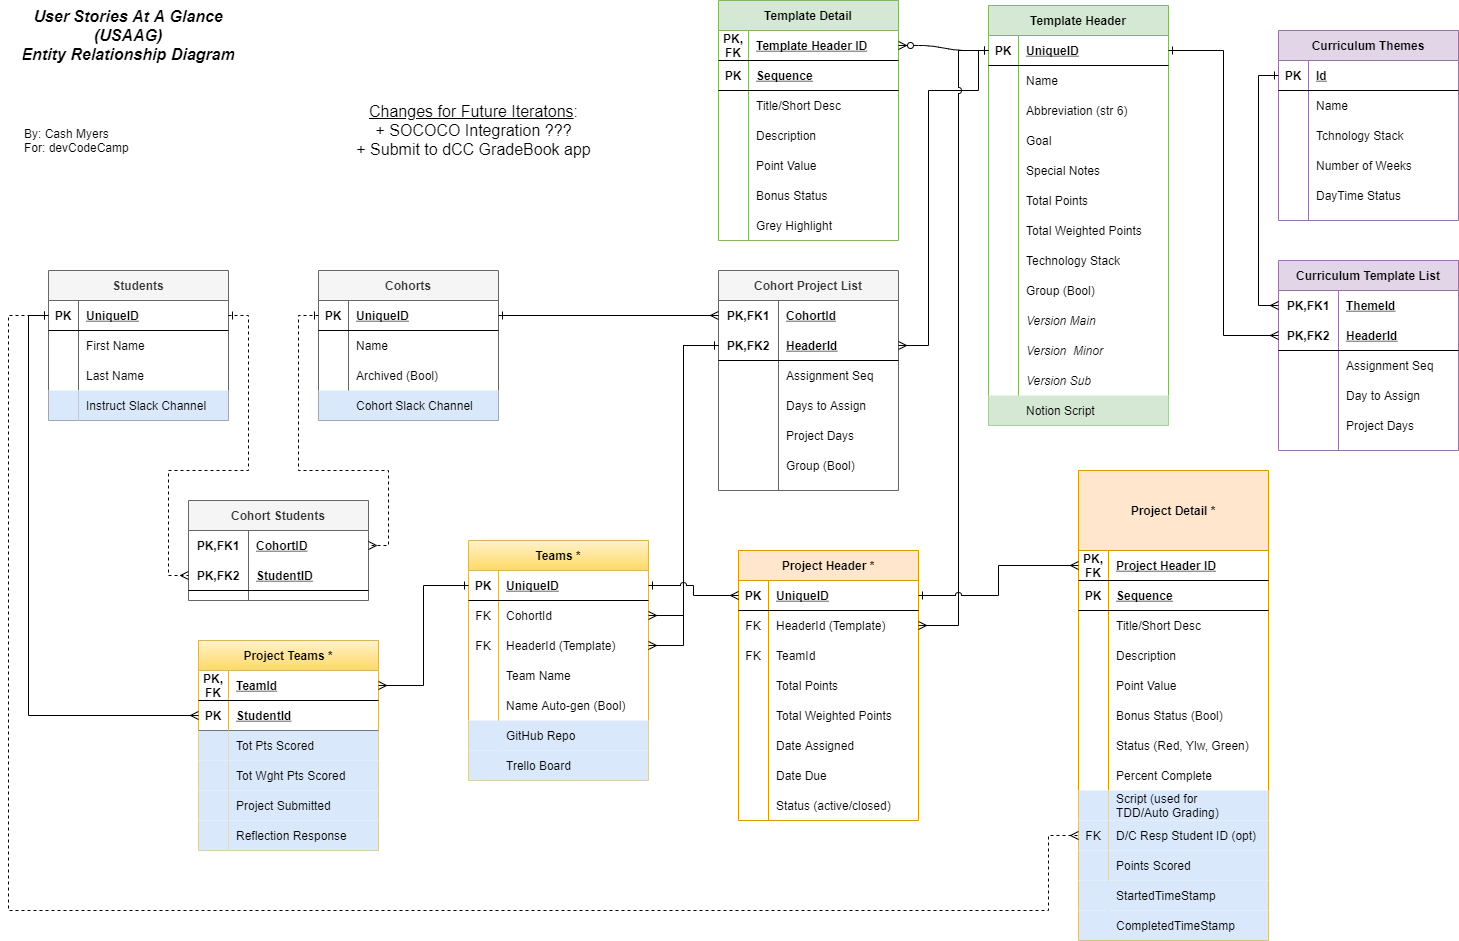
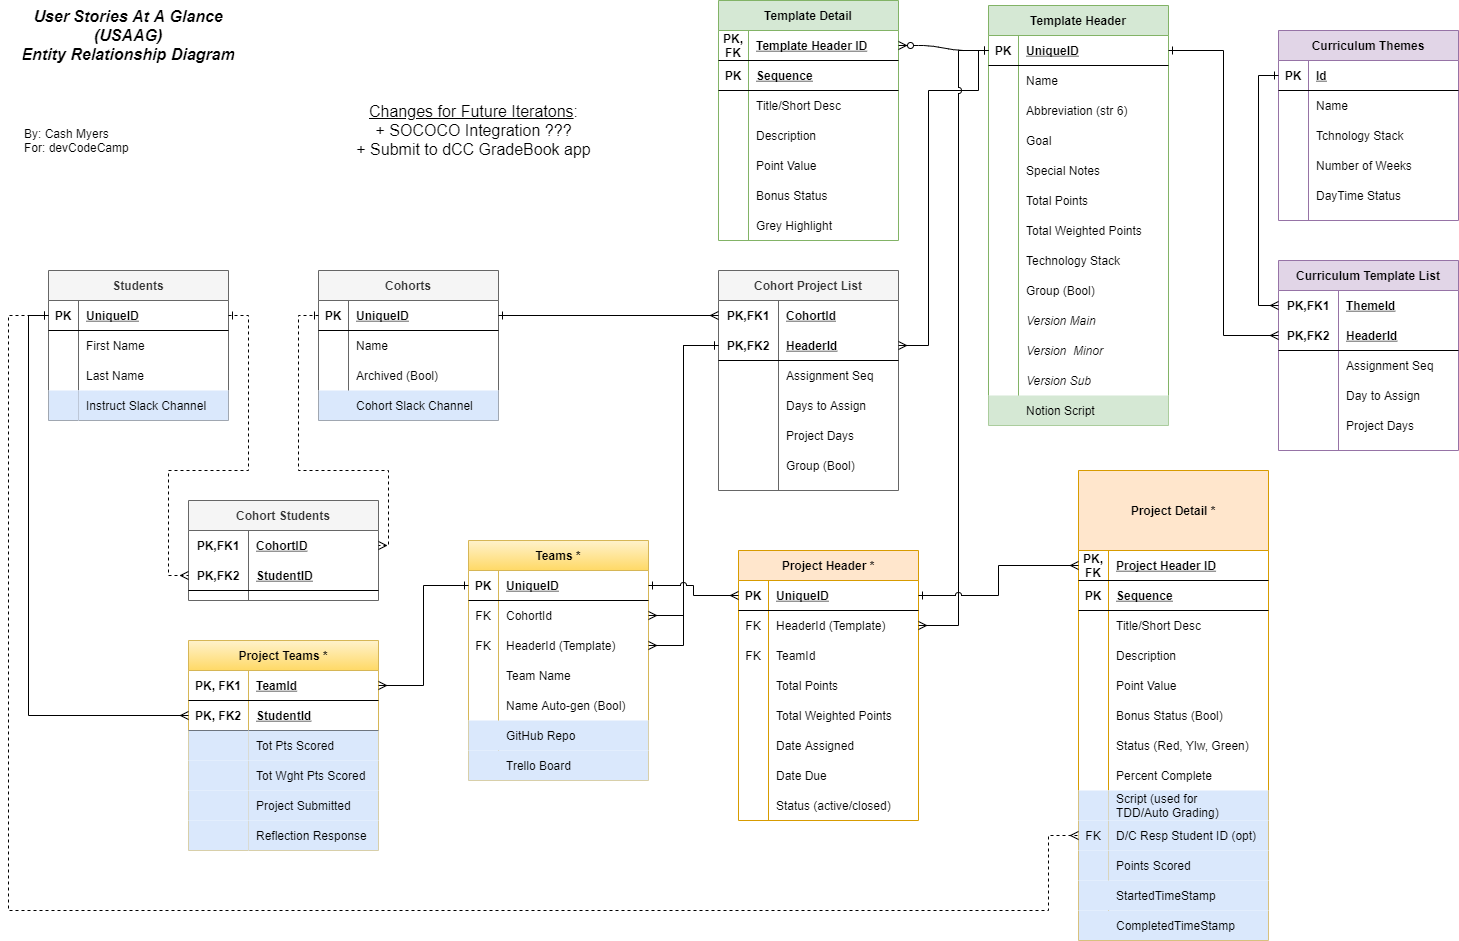
Added ProjectTeamsController

Changed region(s): [[0.1234, 0.678, 0.2467, 0.8937], [0.1542, 0.5239, 0.2159, 0.5547], [0.2467, 0.5547, 0.2776, 0.5855]]

diff --git a/UsaagBackend/Controllers/ProjectTeamsController.cs b/UsaagBackend/Controllers/ProjectTeamsController.cs
@@ -1,0 +1,105 @@
+using UsaagBackend.Data;
+using UsaagBackend.Models;
+using Microsoft.AspNetCore.Mvc;
+using Microsoft.EntityFrameworkCore;
+using System.Linq;
+
+namespace UsaagBackend.Controllers
+{
+    [Route("api/[controller]")]
+    [ApiController]
+    public class ProjectTeamsController : ControllerBase
+    {
+        private readonly ApplicationDbContext _context;
+
+        public ProjectTeamsController(ApplicationDbContext context)
+        {
+            _context = context;
+        }
+
+        // ***** GET ALL Students for a Team *****
+        // <baseurl/api/projectTeams/<teamId>
+        [HttpGet]
+        public IActionResult Get(int TeamId)
+        {
+            var studentList = _context.ProjectTeams
+                .Where(pt => pt.TeamId == TeamId)
+                .Include(pt => pt.Students)
+                .ToList();
+            if (studentList == null)
+            {
+                return NotFound();
+            }
+            return Ok(studentList);
+        }
+
+        // ***** GET A Student for a Project Team *****
+        // <baseurl/api/projectTeams/<teamId>/<studentId>
+        [HttpGet("{TeamId}/{StudentId}")]
+        public IActionResult Get(int TeamId, int StudentId)
+        {
+
+            var studentProjectInfo = _context.ProjectTeams
+                .Where(pt => pt.TeamId == TeamId && pt.StudentId == StudentId)
+                .Include(pt => pt.Students)
+                .ToList();
+            if (studentProjectInfo == null)
+            {
+                return NotFound();
+            }
+            return Ok(studentProjectInfo);
+        }
+
+
+        // ***** ADD A Student to a Project Team *****
+        // POST <baseurl/api/projectTeams/<teamId>/
+        [HttpPost("{TeamId}")]
+        public IActionResult Post(int TeamId, [FromBody] ProjectTeams value)
+        {
+            _context.ProjectTeams.Add(value);
+            _context.SaveChanges();
+            return StatusCode(201, value);
+        }
+
+        // ***** UPDATE Student Project Info in a Project Team *****
+        // UPDATE <baseurl/api/projectTeams/<teamId>/<studentId>
+        [HttpPut("{TeamId}/{StudentId}")]
+        public IActionResult Put(int TeamId, int StudentId, [FromBody] ProjectTeams value)
+        {
+            var studentProjectInfo = _context.ProjectTeams
+                .Where(pt => pt.TeamId == TeamId && pt.StudentId == StudentId)
+                .SingleOrDefault();
+            if (studentProjectInfo == null)
+            {
+                return NotFound("Requested record not found.");
+            }
+            studentProjectInfo.TotalPointsScored = value.TotalPointsScored;
+            studentProjectInfo.TotalWeightedPointsScored = value.TotalWeightedPointsScored;
+            studentProjectInfo.ProjectSubmitted = value.ProjectSubmitted;
+            studentProjectInfo.ReflectionResponse = value.ReflectionResponse;
+
+            _context.ProjectTeams.Update(studentProjectInfo);
+            _context.SaveChanges();
+            return StatusCode(201, studentProjectInfo);
+        }
+
+        // ***** DELETE A Student from a Project Team) *****
+        // DELETE <baseurl/api/projectTeams/<teamId>/<studentId>
+        [HttpDelete("{TeamId}/{StudentId}")]
+        public IActionResult Delete(int TeamId, int StudentId)
+        {
+
+            var studentProjectInfo = _context.ProjectTeams
+                 .Where(pt => pt.TeamId == TeamId && pt.StudentId == StudentId)
+                .SingleOrDefault();
+            if (studentProjectInfo == null)
+            {
+                return NotFound("Requested record not found.");
+            }
+
+            _context.ProjectTeams.Remove(studentProjectInfo);
+            _context.SaveChanges();
+            return StatusCode(204, studentProjectInfo);
+        }
+    }
+}

diff --git a/UsaagBackend/Data/ApplicationDbContext.cs b/UsaagBackend/Data/ApplicationDbContext.cs
@@ -22,6 +22,7 @@ namespace UsaagBackend.Data
         public DbSet<CohortStudents> CohortStudents { get; set; }
         public DbSet<Teams> Teams { get; set; }
         //public DbSet<TeamAssignments> TeamAssignments { get; set; }
+        public DbSet<ProjectTeams> ProjectTeams { get; set; }
         public DbSet<Projects> Projects { get; set; }
         public DbSet<ProjectDetails> ProjectDetails { get; set; }
         //public DbSet<ProjectTeams> ProjectTeams { get; set; }
@@ -61,6 +62,9 @@ namespace UsaagBackend.Data
             modelBuilder.Entity<Teams>()
                 .Property(t => t.AutoGenName)
                 .HasDefaultValue(false);
+
+            modelBuilder.Entity<ProjectTeams>();
+
             //modelBuilder.Entity<TeamAssignments>();
             modelBuilder.Entity<Projects>();
             

diff --git a/UsaagBackend/Models/ProjectTeams.cs b/UsaagBackend/Models/ProjectTeams.cs
@@ -20,6 +20,7 @@ namespace UsaagBackend.Models
         public float TotalPointsScored { get; set; }
         public float TotalWeightedPointsScored { get; set; }
         public bool ProjectSubmitted { get; set; }
+        public string ReflectionResponse { get; set; }
 
     }
 }
